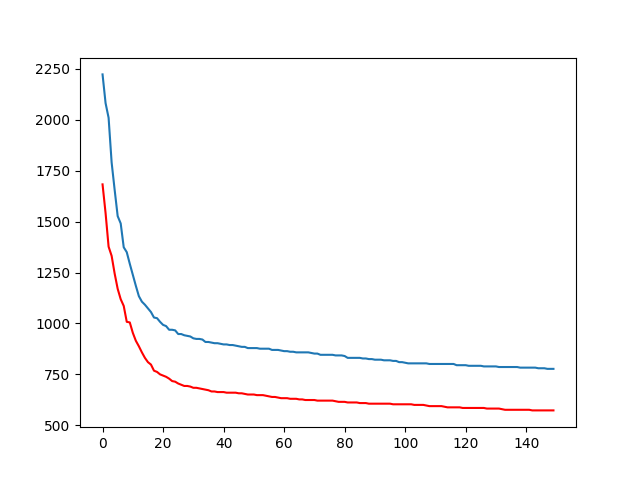
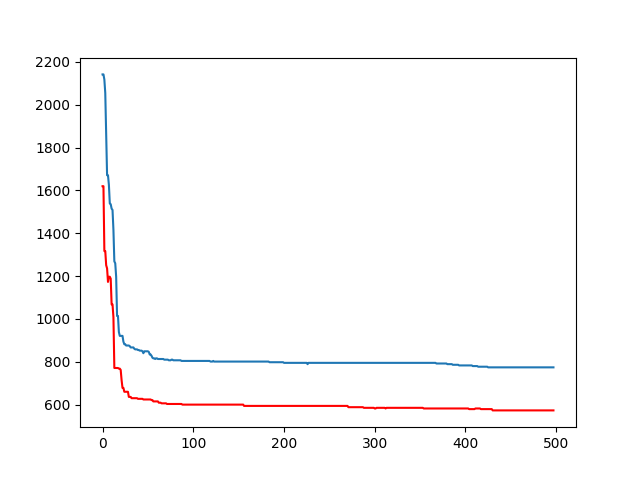
update smt

diff --git a/RealVectorEncode.py b/RealVectorEncode.py
@@ -48,8 +48,9 @@ N = 200
 NE = 75
 uc = 2
 um = 5
-deltaT = 15
+deltaT = 1500000
 INF = 9999999999
+MaxNumberOfFuncEvaluate = 100000 * 2
 
 """
 Data structure checks if cycle exists in graph when add edges.
@@ -76,6 +77,7 @@ Output: adjacent List (dictionary of (int, list))
 """
 def decode(task, individual):
     result = {}
+    # tmpIndividual = (-1)*individual
     argSort = np.argsort(-individual)
     edgesOfTask = list()
     degreeOfVertice = list()
@@ -141,6 +143,8 @@ class Task:
     Output: a number (used energy)
     """
     def evaluateIndividualFactorialCost(self, individual):
+        global cntNumberOfFuncEvaluate
+        cntNumberOfFuncEvaluate += 1
         result = 0
         pheotype = decode(self, individual) # adjacent list
                                             # (dictionary of (int, list))
@@ -719,6 +723,7 @@ Param: tasks (array of class Task), rmp, number of generation
 Output: best individual for each task
 """
 def mfea(databaseName, tasks, rmp=0.3, generation=100):
+    global cntNumberOfFuncEvaluate
     # Initial population with N individuals for each task
     mecat = []
     metcat_rn = []
@@ -771,6 +776,8 @@ def mfea(databaseName, tasks, rmp=0.3, generation=100):
     MECATRN_shortestPathTree = SPT(rn_num_node, mecat_rn_graph)
     # Loops
     for i in range(generation):
+        if(cntNumberOfFuncEvaluate >= MaxNumberOfFuncEvaluate):
+            break
         offspringPopulation = np.empty((0, maximumNumberOfEdges), float)
         offspringSkillFactor = np.empty((0, 1), float)
         # potentialPopulation = np.empty((0, maximumNumberOfEdges), float)
@@ -908,24 +915,27 @@ mecatDataFiles = sorted(mecatDataFiles,reverse=False)
 
 allResultCost = np.array([[0]*2])
 
-FileName = "Record/NDE2-" + str(datetime.now())
+FileName = "Record/RVE-" + str(datetime.now())
 
 f = open(FileName,"a")
 
 cntDatabase = 0
 
 for i in range(len(mecatDataFiles)):
+    cntNumberOfFuncEvaluate = 0
     task1 = getInputFromFile(mecatDataPath+'/'+mecatDataFiles[i])
     task2 = getInputFromFile(mecatDataPath+'_rn/rn_'+mecatDataFiles[i])
     tasks = list([task1, task2])
     print('Task 1 and 2 is from file: ', mecatDataFiles[i])
-    resultPopulation = mfea(mecatDataFiles[i], tasks, 0.3, 150)
+    resultPopulation, history = mfea(mecatDataFiles[i], tasks, 0.3, 1000)
 
     print("-----")
     resultPopulationCost = list()
     for j in range(len(resultPopulation)):
         print("Task", j+1)
         print(tasks[j].evaluateIndividualFactorialCost(resultPopulation[j]))
+        print()
+        print(cntNumberOfFuncEvaluate)
         print()
         resultPopulationCost.append(tasks[j].evaluateIndividualFactorialCost(resultPopulation[j]))
     allResultCost = np.vstack([allResultCost, np.array(resultPopulationCost)])

diff --git a/NodeDeepthEncode2.py b/NodeDeepthEncode2.py
@@ -21,6 +21,7 @@ q = 4
 NE = 25
 deltaT = 10000
 INF = 9999999999
+MaxNumberOfFuncEvaluate = 100000 * 2
 
 random.seed(100)
 """
@@ -113,6 +114,8 @@ class Task:
     #     return (Tx + Rx)*result
 
     def evaluateIndividualFactorialCost(self, individual):
+        global cntNumberOfFuncEvaluate
+        cntNumberOfFuncEvaluate += 1
         individual = decode(individual)
         return self.energy_cost(self.n+self.m+1, self.dic_to_list(individual),Tx, Rx,q, self.huyanh.copy(), self.level(self.dic_to_list(individual)))
         # return self.energy_cost(self.n+self.m+1, individual.tolist(),Tx, Rx,q, self.s, self.level(individual.tolist()))
@@ -881,6 +884,7 @@ Param: tasks (array of class Task), rmp, number of generation
 Output: best individual for each task
 """
 def mfea(databaseName, tasks, rmp=0.3, generation=100):
+    global cntNumberOfFuncEvaluate
     # Initial population with N individuals for each task
     mecat = []
     metcat_rn = []
@@ -934,6 +938,8 @@ def mfea(databaseName, tasks, rmp=0.3, generation=100):
     # exit(1)
     # Loops
     for i in range(generation):
+        if(cntNumberOfFuncEvaluate >= MaxNumberOfFuncEvaluate):
+            break
         # offspringPopulation = np.empty((0, maximumNumberOfEdges), float)
         offspringPopulation = np.array([[[0]*lengthOfGen,[0]*lengthOfGen]])
         offspringSkillFactor = np.empty((0, 1), float)
@@ -1089,6 +1095,7 @@ f = open(FileName,"a")
 cntDatabase = 0
 
 for i in range(len(mecatDataFiles)):
+    cntNumberOfFuncEvaluate = 0
     task1 = getInputFromFile(mecatDataPath+'/'+mecatDataFiles[i])
     task2 = getInputFromFile(mecatDataPath+'_rn/rn_'+mecatDataFiles[i])
     tasks = list([task1, task2])
@@ -1101,6 +1108,8 @@ for i in range(len(mecatDataFiles)):
         print("Task", j+1)
         print(tasks[j].evaluateIndividualFactorialCost(resultPopulation[j]))
         print()
+        # print(cntNumberOfFuncEvaluate)
+        # print()
         resultPopulationCost.append(tasks[j].evaluateIndividualFactorialCost(resultPopulation[j]))
     allResultCost = np.vstack([allResultCost, np.array(resultPopulationCost)])
     print("-----")

diff --git a/tempCodeRunnerFile.py b/tempCodeRunnerFile.py
@@ -1,3 +1,7 @@
-pulation(MECATRN_shortestPathTree, tasks[1].adjList, tasks[1].numberOfEdges, maximumNumberOfEdges, len(tasks))
-            # MECATRN_potentialSkillFactor = np.array([1]*(K*NE))
-            # MECATRN_potentialCost = evaluatePopulationFactorial
+import numpy as np
+
+a = np.array([1,2,3])
+print(a)
+
+b = (-1)*a
+print(b)
